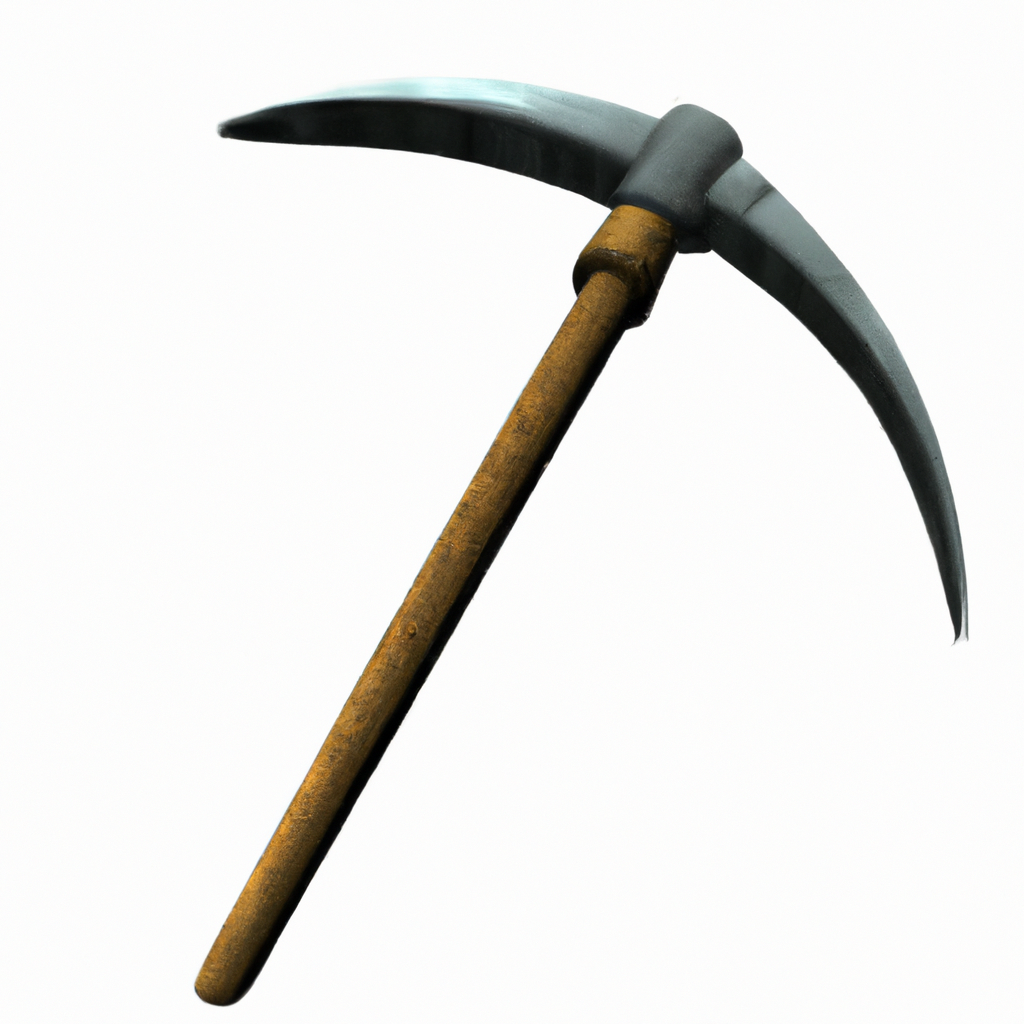
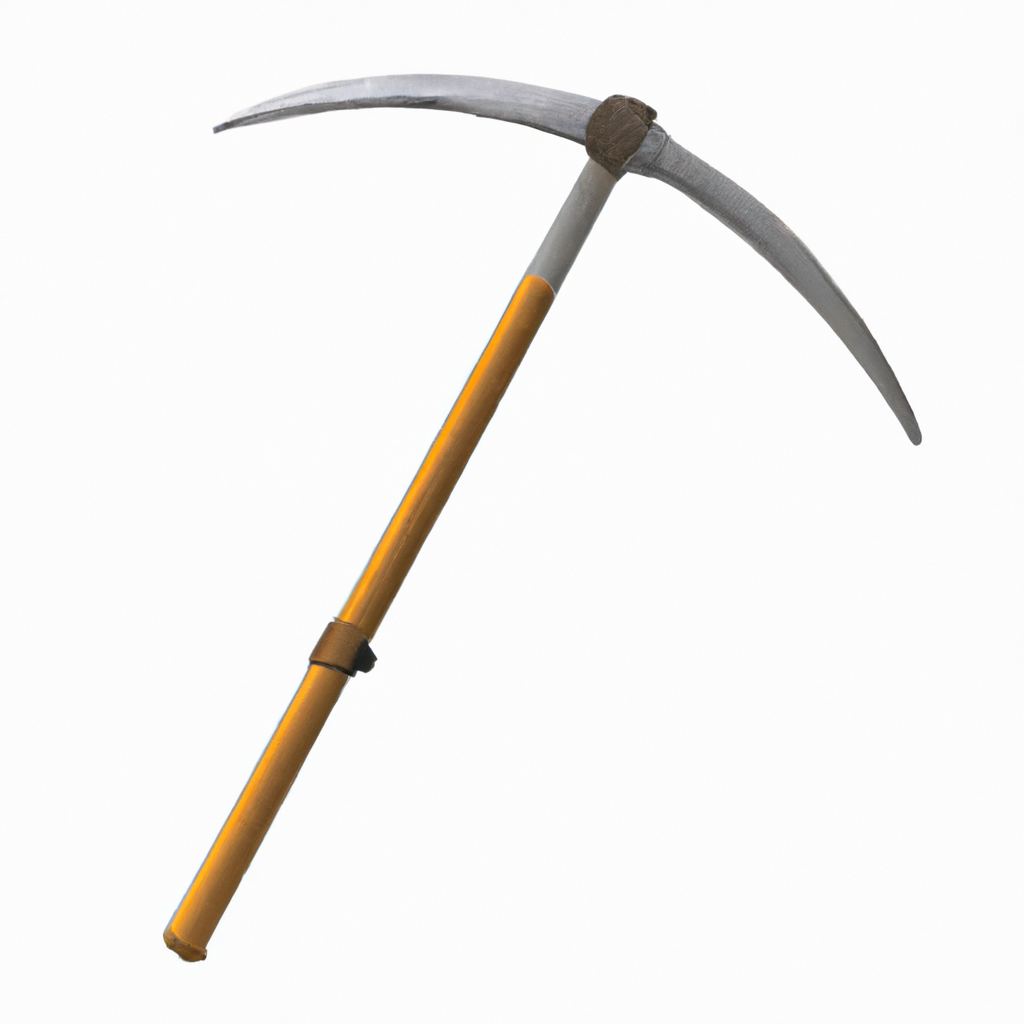
Refactor DallE code for better prompt and key management

Changed region(s): [[0.1562, 0.0625, 0.9688, 1.0]]

diff --git a/src/dall_e.py b/src/dall_e.py
@@ -1,13 +1,11 @@
 
-import os
 from openai import OpenAI
 from openai.types import ImagesResponse
 from dotenv import load_dotenv
 
 
 class DallE():
-    def __init__(self, api_key: str) -> None:
-        self.api_key = api_key
+    def __init__(self, api_key: str | None = None) -> None:
         self._client = OpenAI(api_key=api_key)
 
     def create(self, prompt: str) -> ImagesResponse:
@@ -23,7 +21,6 @@ class DallE():
 
 if __name__ == "__main__":
     load_dotenv("..")
-    secret_key = os.getenv("OPEN_AI_KEY")
-    dalle = DallE(secret_key)
-    response = dalle.create("a semi-realistic pickaxe, with no background. No shadows cast by the pickaxe. Do not add any additional frills to the image. Ensure the pickaxe is completely within the image bounds.")
+    dalle = DallE()
+    response = dalle.create("Generate a realistic pickaxe. Do not draw any shadows. Do not add any additional frills to the image. Ensure the object is completely within the image bounds. Make the background colour a perfect white.")
     print(response)

diff --git a/src/postprocessing.py b/src/postprocessing.py
@@ -1,12 +1,26 @@
 
+import numpy as np
 import matplotlib.pyplot as plt
 from PIL import Image
 from rembg import remove
+from pathlib import Path
+
+
+def postprocess(image: Path, dimensions: tuple[int, int] = (32, 32), remove_bg: bool = True):
+    if isinstance(img, Path):
+        img = Image.open(image)
+    else:
+        img = image
+    if remove_bg:
+        img = remove(img)
+    img = img.resize(dimensions, resample=Image.Resampling.NEAREST)
+    return img
+    
 
 
 if __name__ == "__main__":
+    # img = postprocess(r".\assets\pickaxe.png")
+    # plt.imshow(img)
+    # plt.show()
     img = Image.open(r".\assets\pickaxe.png")
-    resized_img = img.resize((32, 32), resample=Image.Resampling.NEAREST)
-    resized_no_bg_img = remove(resized_img)
-    plt.imshow(resized_no_bg_img)
-    plt.show()
+    print(type(img))
